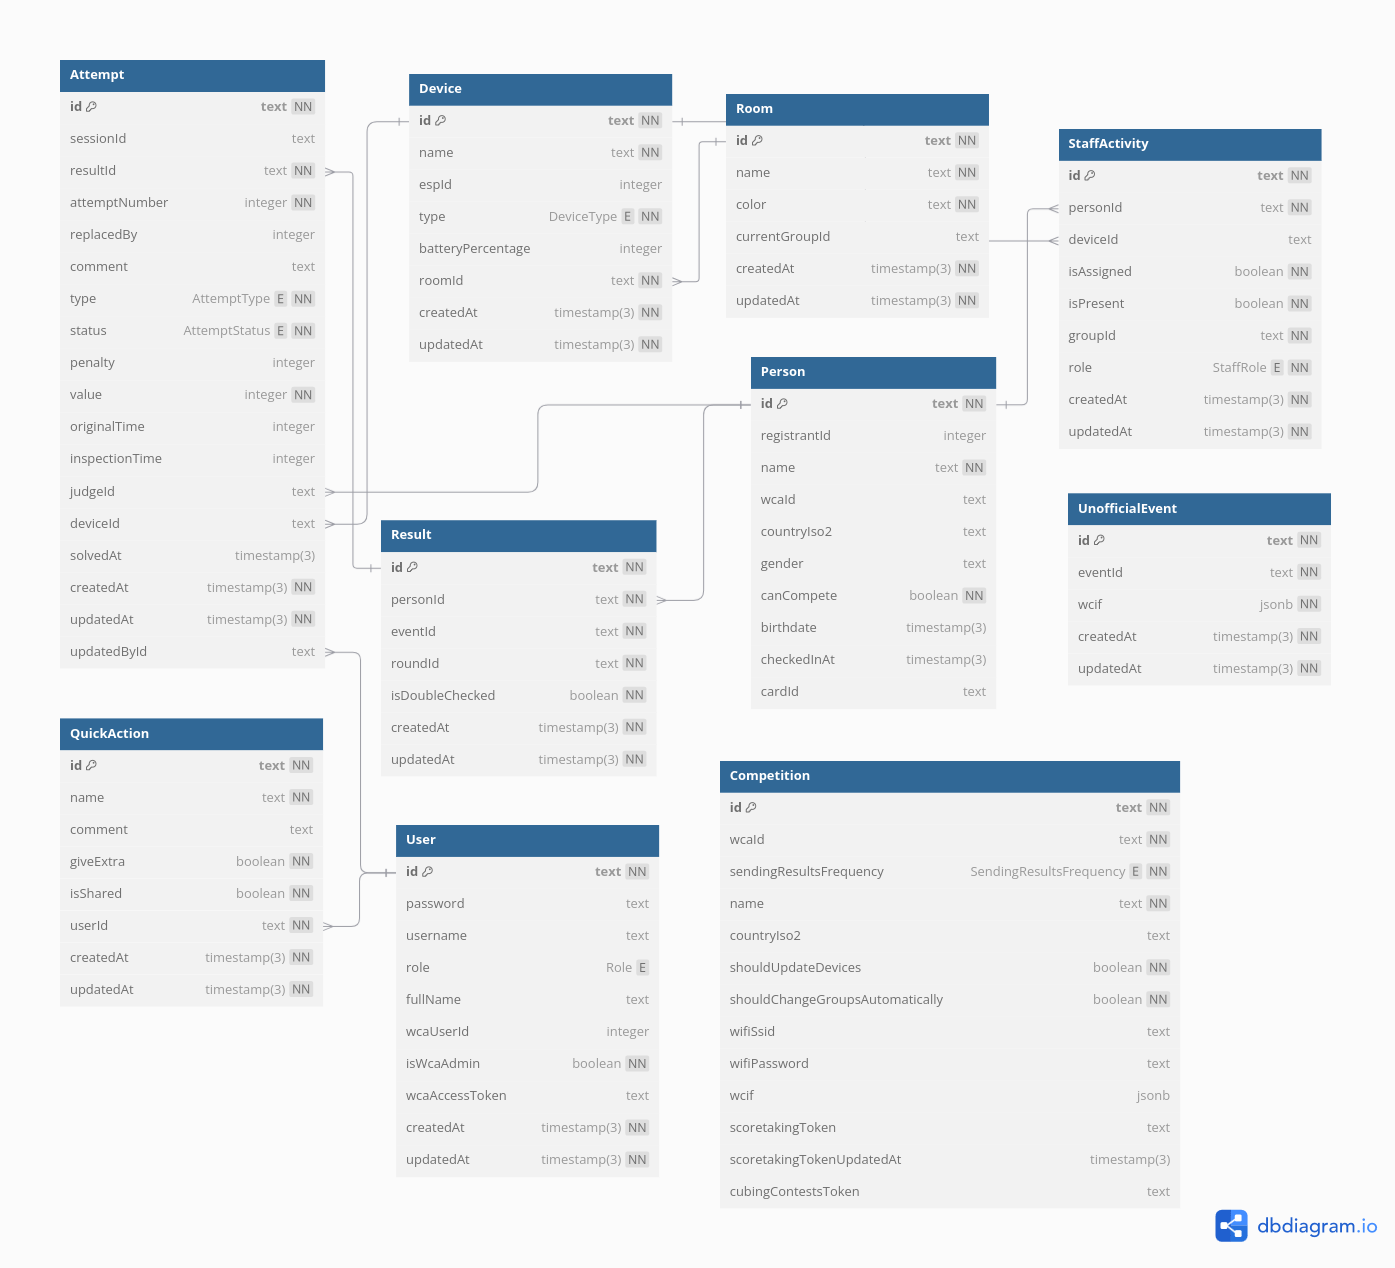
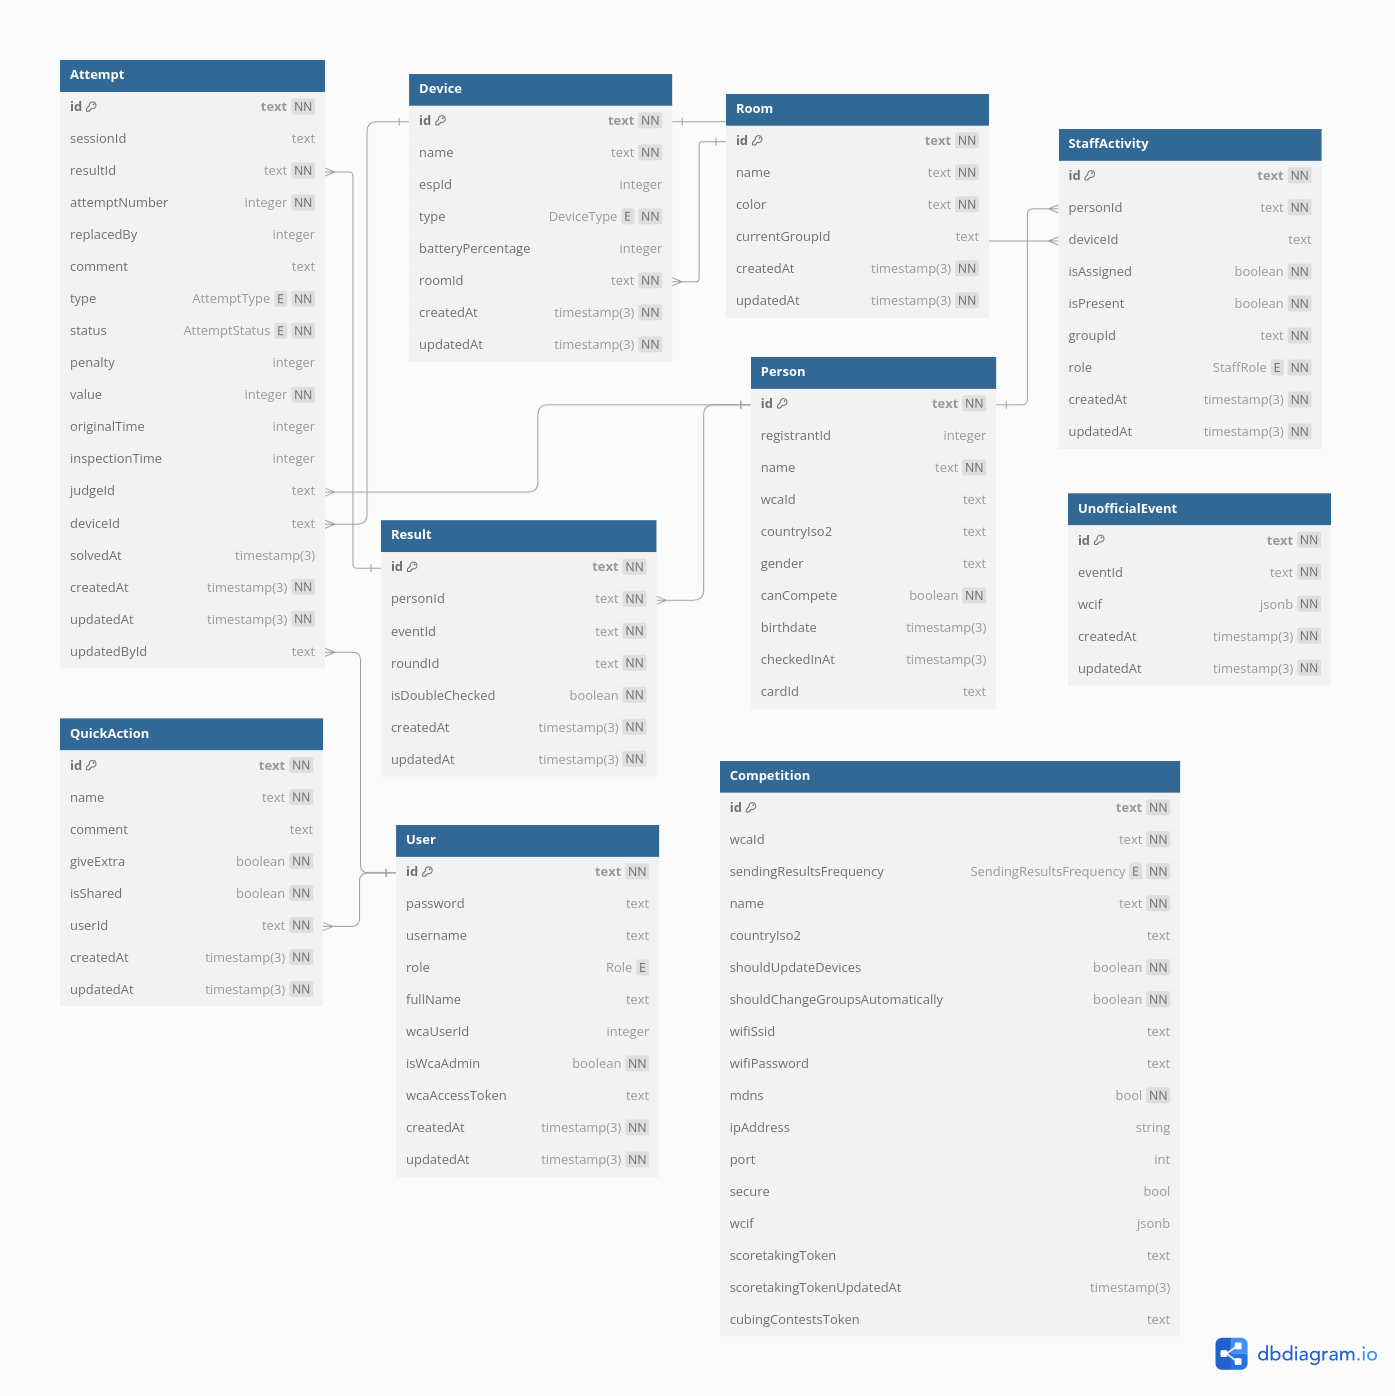
docs: add info about new db columns

diff --git a/docs/basic-knowledge/database-structure.md b/docs/basic-knowledge/database-structure.md
@@ -35,6 +35,10 @@ There is one record in this table. It stores the competition settings, WCIF and 
 - `shouldChangeGroupsAutomatically` - boolean, if the groups should be changed automatically
 - `wifiSsid` - wifi SSID, that FKMTime devices will be using to connect to micro-connector
 - `wifiPassword` - wifi password
+- `mdns` - boolean, whether mDNS should be used to discover devices
+- `ipAddress` - IP address of the server (if mDNS is not used)
+- `port` - port of the server (if mDNS is not used)
+- `secure` - boolean, if the server is using SSL (if mDNS is not used)
 - `wcif` - JSON, stores public WCIF of the competition
 - `scoretakingToken` - token taken from WCA Live for entering results
 - `cubingContestToken` - token taken from CubingContests for entering results
